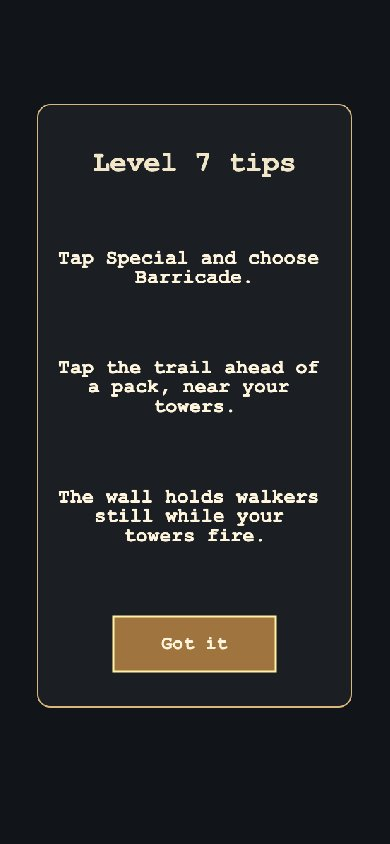
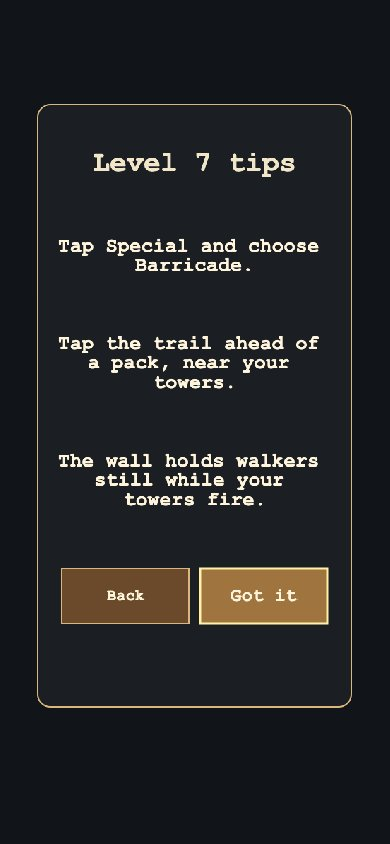
Protect first-visit tips and match instructions to the active input

diff --git a/src/game/names.ts b/src/game/names.ts
@@ -399,15 +399,22 @@ export const starSlots = (stars: number): string => '★'.repeat(stars) + '☆'.
 
 export const tipsHeading = (id: number): string => `Level ${id} tips`;
 
-export const LEVEL_TIPS: Readonly<Record<number, readonly string[]>> = {
-  1: ['Pick a tower. Click a green square by the trail (tap twice).', 'Press Start Wave to let the Goblins in.', 'Tap Special, then tap the trail to hit a pack.'],
-  2: ['Build a Cannon beside a bend.', 'Each blast hits Goblins that stand close together.'],
-  3: ['Put a Tar Pit beside the trail to slow fast Wolves.', 'Build towers nearby to hit them as they slow down.'],
-  4: ['Slow the Shieldbearers with a Tar Pit.', 'Put a Fire Pot nearby. Tar makes the fire burn harder.'],
-  5: ['Harpies fly over walls. Longbows and Musketeers hit them.', 'Fire Pots can hit Harpies, but the fire won’t stick.', 'Drop a Tar Barrel on a crowd to slow it down.'],
-  6: ['A Mortar shoots far but takes time between shots.', 'Use it against slow Trolls. Keep bows for the Harpies.'],
-  7: ['Tap Special and choose Barricade.', 'Tap the trail ahead of a pack, near your towers.', 'The wall holds walkers still while your towers fire.'],
-  8: ['Send Guards ahead of a pack of Shieldbearers.', 'Place them on the trail where your towers can help.', 'Drop Fire Arrows on a crowd to burn it.'],
-  9: ['Tap a tower you have upgraded once.', 'Choose one of its two upgrades before Grumblefoot comes.'],
-  10: ['Grumblemaw calls Wolves. Save a Powder Keg for the pack.', 'Slow Grumblemaw with tar, then hit him with fire.'],
-};
+function campaignTips(touch: boolean): Readonly<Record<number, readonly string[]>> {
+  const action = touch ? 'Tap' : 'Click';
+  return {
+    1: [touch ? 'Tap a tower, then tap a square by the trail twice.' : 'Click a tower, then click a square by the trail.', 'Press Start Wave to let the Goblins in.', `${action} Special, then ${action.toLowerCase()} the trail to hit a pack.`],
+    2: ['Build a Cannon beside a bend.', 'Each blast hits Goblins that stand close together.'],
+    3: ['Put a Tar Pit beside the trail to slow fast Wolves.', 'Build towers nearby to hit them as they slow down.'],
+    4: ['Slow the Shieldbearers with a Tar Pit.', 'Put a Fire Pot nearby. Tar makes the fire burn harder.'],
+    5: ['Harpies fly over the trail. Longbows and Musketeers hit them.', 'Fire Pots can hit Harpies, but the fire won’t stick.', 'Drop a Tar Barrel on a crowd to slow it down.'],
+    6: ['A Mortar shoots far but takes time between shots.', 'Use it against slow Trolls. Keep bows for the Harpies.', 'It cannot hit enemies right beside it.'],
+    7: [`${action} Special and choose Barricade.`, `${action} the trail ahead of a pack, near your towers.`, 'The wall holds walkers still while your towers fire.'],
+    8: ['Send Guards ahead of a pack of Shieldbearers.', 'Place them on the trail where your towers can help.', 'Drop Fire Arrows on a crowd to burn it.'],
+    9: [`${action} a tower you have upgraded once.`, 'Choose one of its two upgrades before Grumblefoot comes.'],
+    10: ['Grumblemaw calls Wolves. Save a Powder Keg for the pack.', 'Slow Grumblemaw with tar, then hit him with fire.'],
+  };
+}
+
+const mouseTips = campaignTips(false);
+const touchTips = campaignTips(true);
+export const levelTips = (id: number, touch: boolean): readonly string[] => (touch ? touchTips : mouseTips)[id];

diff --git a/src/game/TitleScene.ts b/src/game/TitleScene.ts
@@ -161,6 +161,8 @@ export class TitleScene extends Phaser.Scene {
   private page: TitleScreen = 'first';
   private card?: LevelDef;
   private replayTips = false;
+  private touchTips = false;
+  private tipsAcceptAt = 0;
   tipsEnabled = true;
   private mapStops: CampaignStop[] = [];
   private lockedMessage: string | null = null;
@@ -285,17 +287,27 @@ export class TitleScene extends Phaser.Scene {
       const start = () => this.startGame({ difficulty: DEFAULT_DIFFICULTY, map: level.map, level });
       const toCard = () => this.visit('levelCard', level.id);
       if (this.page === 'levelTips') {
-        this.playButton = drawLevelTips(this, portrait, level, this.action, () => {
+        // Play activates on pointerup, so the opening press has already ended.
+        // A press that begins during the guard must stay ignored on release.
+        const delay = this.tipsAcceptAt - performance.now();
+        if (delay > 0) {
+          this.input.enabled = false;
+          this.time.delayedCall(delay, () => { this.input.enabled = true; });
+        }
+        this.playButton = drawLevelTips(this, portrait, level, this.touchTips, this.action, () => {
+          if (!this.input.enabled) return;
           if (this.replayTips) return toCard();
           seenTips.mark(level.id);
           start();
-        });
-        this.bindMenuKeys(['gotIt']);
-        this.input.keyboard?.on('keydown-ESC', toCard);
+        }, this.replayTips ? undefined : toCard);
+        this.bindMenuKeys(this.replayTips ? ['gotIt'] : ['back', 'gotIt'], this.replayTips ? 0 : 1);
+        if (this.replayTips) this.input.keyboard?.on('keydown-ESC', toCard);
       } else {
         const seen = seenTips.has(level.id);
         const showTips = (replay: boolean) => {
           this.replayTips = replay;
+          this.touchTips = this.input.activePointer.wasTouch;
+          this.tipsAcceptAt = performance.now() + 400;
           this.visit('levelTips', level.id);
         };
         const review = seen ? () => showTips(true) : undefined;
@@ -510,14 +522,14 @@ export class TitleScene extends Phaser.Scene {
         : { text: line.text, rect: { x: line.x - line.width / 2, y: line.y - line.height / 2, width: line.width, height: line.height } };
     return {
       screen: this.page, stops: this.mapStops, lockedMessage: this.lockedMessage, levelId: this.card?.id ?? null,
-      scene: 'title', difficulty: this.selected, map: this.selectedMap, ready: this.ready,
+      scene: 'title', difficulty: this.selected, map: this.selectedMap, ready: this.isReady,
       look: this.lookStore.get(), loading: this.progress, bestLine,
     };
   }
 
   /** Whether the menu has been drawn and its buttons take clicks. */
   get isReady(): boolean {
-    return this.ready;
+    return this.ready && this.input.enabled;
   }
 
   /**
@@ -527,7 +539,7 @@ export class TitleScene extends Phaser.Scene {
    */
   rects(): Record<string, Rect> {
     const out: Record<string, Rect> = {};
-    if (!this.ready) return out;
+    if (!this.isReady) return out;
     for (const [key, button] of this.campaignButtons) out[key] = button.rect;
     for (const [l, b] of this.levelButtons) out[`title:${l}`] = b.rect;
     for (const [m, b] of this.mapButtons) out[`title:map:${m}`] = b.rect;

diff --git a/e2e/tipsVerifier.ts b/e2e/tipsVerifier.ts
@@ -40,7 +40,7 @@ export function tipsVerifierSuite(touch: boolean) {
     else await page.mouse.click(x, y);
   };
 
-  test('placing a tower takes one click with a mouse and two taps on touch (level 1 tip says click, tap twice)', async ({ page }) => {
+  test('placing a tower takes one click with a mouse and two taps on touch', async ({ page }) => {
     await page.goto('/?test=1');
     await waitForFirstScreen(page);
     await api(page, (t) => t.startLevel(1));
@@ -56,9 +56,7 @@ export function tipsVerifierSuite(touch: boolean) {
   });
 
   test('a quick second press on Play in portrait must not skip the first-visit tips', async ({ page }) => {
-    // Pins a defect: in portrait the Got it button sits under the Play button, so a double press
-    // starts the level and marks its tips as seen. Remove test.fail when fixed.
-    test.fail();
+    await page.clock.install();
     await page.goto('/?test=1');
     await waitForFirstScreen(page, { showTips: true });
     await rotateToPortrait(page);
@@ -71,11 +69,33 @@ export function tipsVerifierSuite(touch: boolean) {
       const r = t.uiRects()['title:play'];
       return t.canvasToPage(r.x + r.width / 2, r.y + r.height / 2);
     });
+    // Freeze just before Play so a slow test runner still presses inside the guard.
+    await page.clock.pauseAt(new Date(await page.evaluate(() => Date.now()) + 1000));
     await tap(page, play.x, play.y);
-    await page.waitForTimeout(100);
+    await page.clock.runFor(100);
     await tap(page, play.x, play.y);
-    await page.waitForTimeout(500);
+    const accept = await page.evaluate(() => {
+      const t = window.__tarpit as TarpitTestApi;
+      const label = t.campaignLabels().find(label => label.text === 'Got it')!;
+      return t.canvasToPage(label.x + label.width / 2, label.y + label.height / 2);
+    });
+    await page.clock.runFor(200);
+    await page.keyboard.press('Enter');
+    if (touch) {
+      await tap(page, accept.x, accept.y);
+      await page.clock.runFor(200);
+    } else {
+      // A press that starts early must still be ignored when released after the guard.
+      await page.mouse.move(accept.x, accept.y);
+      await page.mouse.down();
+      await page.clock.runFor(200);
+      await page.mouse.up();
+    }
     expect(await api(page, (t) => t.screen())).toBe('levelTips');
+    expect(await stored(page, 'tarpit.seenTips')).toBeNull();
+    await press(page, 'title:back', touch);
+    await page.clock.runFor(50);
+    expect(await api(page, (t) => t.screen())).toBe('levelCard');
     expect(await stored(page, 'tarpit.seenTips')).toBeNull();
   });
 

diff --git a/src/game/ui/campaignScreens.ts b/src/game/ui/campaignScreens.ts
@@ -1,7 +1,7 @@
 import type Phaser from 'phaser';
 import { MAPS, type LevelDef } from '../../sim';
 import { drawMapThumbnail } from '../draw/map';
-import { CAMPAIGN_TEXT, LEVEL_NAMES, LEVEL_NEW, LEVEL_TIPS, tipsHeading, MAP_NAMES, TITLE_TEXT, levelNumberText } from '../names';
+import { CAMPAIGN_TEXT, LEVEL_NAMES, LEVEL_NEW, levelTips, tipsHeading, MAP_NAMES, TITLE_TEXT, levelNumberText } from '../names';
 import { COLORS, FONT, TEXT } from '../palette';
 import type { Rect } from '../input';
 import type { CampaignStop } from './campaignMap';
@@ -121,15 +121,20 @@ export function drawLevelCard(
   return playButton;
 }
 
-export function drawLevelTips(scene: Phaser.Scene, portrait: boolean, level: LevelDef, action: Action, accept: () => void): Button {
+export function drawLevelTips(
+  scene: Phaser.Scene, portrait: boolean, level: LevelDef, touch: boolean,
+  action: Action, accept: () => void, back?: () => void,
+): Button {
   const cx = scene.scale.width / 2;
   const panel = portrait ? { x: 18, y: 148, width: 444, height: 852 } : { x: 72, y: 42, width: 816, height: 486 };
   const g = scene.add.graphics();
   g.fillStyle(COLORS.endPanel).fillRoundedRect(panel.x, panel.y, panel.width, panel.height, 18);
   g.lineStyle(2, COLORS.endPanelEdge).strokeRoundedRect(panel.x, panel.y, panel.width, panel.height, 18);
   const heading = label(scene, cx, panel.y + (portrait ? 83 : 60), tipsHeading(level.id), portrait ? 40 : 36, TEXT.title);
-  const lines = LEVEL_TIPS[level.id].map(line => label(scene, cx, 0, line, portrait ? 28 : 26, TEXT.button, panel.width - 52));
-  const rect = portrait ? { x: cx - 115, y: 872, width: 230, height: 78 } : { x: cx - 100, y: 432, width: 200, height: 58 };
+  const lines = levelTips(level.id, touch).map(line => label(scene, cx, 0, line, portrait ? 28 : 26, TEXT.button, panel.width - 52));
+  const width = portrait ? 180 : 200;
+  const rect = { x: back ? cx + 8 : cx - width / 2, y: portrait ? 804 : 402, width, height: portrait ? 78 : 58 };
+  if (back) action('title:back', { ...rect, x: cx - width - 8 }, CAMPAIGN_TEXT.back, back);
   const top = heading.y + heading.height / 2;
   const gap = (rect.y - top - lines.reduce((height, line) => height + line.height, 0)) / (lines.length + 1);
   let y = top;

diff --git a/e2e/campaignScreens.ts b/e2e/campaignScreens.ts
@@ -1,7 +1,7 @@
 import { expect, test, type Page } from '@playwright/test';
 import type { TitleUiState } from '../src/game/TitleScene';
 import type { TarpitTestApi } from '../src/game/testGlobal';
-import { CAMPAIGN_TEXT, TITLE_TEXT } from '../src/game/names';
+import { CAMPAIGN_TEXT, levelTips, TITLE_TEXT } from '../src/game/names';
 import { api, press } from './campaign';
 import { paintedAsset, settle } from './painted';
 import { useTallFontMetrics } from './campaignFont';
@@ -109,11 +109,23 @@ export function campaignScreenSuite(touch: boolean) {
         await press(page, `title:stop:${id}`, touch);
         await onScreen(page, 'levelCard');
         await checkSpacing(page);
+        const play = await api(page, t => t.uiRects()['title:play']);
         await press(page, 'title:play', touch);
         await onScreen(page, 'levelTips');
+        const gotIt = await api(page, t => t.uiRects()['title:gotIt']);
+        expect(Math.max(play.x - gotIt.x - gotIt.width, gotIt.x - play.x - play.width,
+          play.y - gotIt.y - gotIt.height, gotIt.y - play.y - play.height), 'Got it clears Play').toBeGreaterThanOrEqual(0);
+        expect(await api(page, t => t.campaignLabels().map(label => label.text))).toEqual(expect.arrayContaining([...levelTips(id, touch)]));
         await checkSpacing(page);
+        // Tablet and phone cover both touch layouts. Turn the desktop viewport for mouse wording.
+        if (!touch) {
+          await rotate(page, 'levelTips');
+          await checkSpacing(page);
+          expect(await api(page, t => t.campaignLabels().map(label => label.text))).toEqual(expect.arrayContaining([...levelTips(id, touch)]));
+        }
         await page.keyboard.press('Escape');
         await onScreen(page, 'levelCard');
+        if (!touch) await rotate(page, 'levelCard');
         await press(page, 'title:back', touch);
         await onScreen(page, 'levelMap');
       }

diff --git a/src/game/tips-verifier.test.ts b/src/game/tips-verifier.test.ts
@@ -2,7 +2,7 @@
 import { describe, expect, it } from 'vitest';
 import { LEVELS, createGame } from '../sim';
 import { allowedTowers, availableSpecials, maxTowerLevel } from '../sim';
-import { LEVEL_TIPS } from './names';
+import { levelTips } from './names';
 import { campaignResultText } from './ui/endText';
 
 const level = (id: number) => LEVELS.find(l => l.id === id)!;
@@ -43,6 +43,18 @@ describe('milestone 42 tips use only gear the level allows', () => {
     expect(open(9).tier).toBe(3);
     expect(open(10).specials).toContain('keg');
     expect(open(10).towers).toEqual(expect.arrayContaining(['tarpit', 'firepot']));
-    expect(Object.keys(LEVEL_TIPS)).toHaveLength(LEVELS.length);
+  });
+
+  it.each([false, true])('describes the build and special controls for the active pointer (touch=%s)', touch => {
+    const action = touch ? 'Tap' : 'Click';
+    const basics = levelTips(1, touch);
+    expect(basics[0]).toBe(touch ? 'Tap a tower, then tap a square by the trail twice.' : 'Click a tower, then click a square by the trail.');
+    expect(basics[2]).toBe(`${action} Special, then ${action.toLowerCase()} the trail to hit a pack.`);
+    expect(levelTips(7, touch).slice(0, 2)).toEqual([
+      `${action} Special and choose Barricade.`, `${action} the trail ahead of a pack, near your towers.`,
+    ]);
+    expect(levelTips(9, touch)[0]).toBe(`${action} a tower you have upgraded once.`);
+    expect(levelTips(5, touch)[0]).toBe('Harpies fly over the trail. Longbows and Musketeers hit them.');
+    expect(levelTips(6, touch)[2]).toBe('It cannot hit enemies right beside it.');
   });
 });

diff --git a/src/game/seenTips.test.ts b/src/game/seenTips.test.ts
@@ -1,17 +1,17 @@
 import { describe, expect, it } from 'vitest';
 import { LEVELS } from '../sim';
-import { LEVEL_TIPS } from './names';
+import { levelTips } from './names';
 import { SEEN_TIPS_KEY, SeenTipsStore } from './seenTips';
 
 describe('campaign tips', () => {
-  it('gives every campaign level one to three short lines', () => {
-    expect(Object.keys(LEVEL_TIPS).map(Number)).toEqual(LEVELS.map(level => level.id));
-    for (const lines of Object.values(LEVEL_TIPS)) {
+  it.each([false, true])('gives every campaign level one to three short lines (touch=%s)', touch => {
+    for (const level of LEVELS) {
+      const lines = levelTips(level.id, touch);
       expect(lines.length).toBeGreaterThan(0);
       expect(lines.length).toBeLessThanOrEqual(3);
       for (const line of lines) {
         expect(line.trim().length).toBeGreaterThan(0);
-        expect(line.length).toBeLessThanOrEqual(60);
+        expect(line.length).toBeLessThanOrEqual(61);
       }
     }
   });

diff --git a/docs/DESIGN.md b/docs/DESIGN.md
@@ -1698,20 +1698,26 @@ for earned slots and outlines for empty slots. The first open level without a wi
 Tapping any lock names the first open level still to win. Back returns to
 the first screen. An open stop shows a card with the level name, map,
 twist, new equipment or enemies, and best stars. On the first Play for
-each level, a tips panel shows up to three short instructions. Got it
-starts the level. On later visits Play starts the level directly and Tips
+each level, a tips panel shows up to three short instructions. Action words
+match the input used to open the panel. A mouse builds with one click on
+the square. Touch arms the square with the first tap and builds with the
+second. Panel buttons ignore pointer presses until the opening pointer has
+been released and at least 400 ms have elapsed since opening. Got it sits
+clear of the card’s Play button in both layouts and starts the level. On later visits Play starts the level directly and Tips
 reopens the instructions. Got it on a reopened panel returns to the card.
 Escape returns to the card from either panel. Enter and Space activate
 the selected button. Turning the device keeps the panel and its action.
 Got it marks the level seen under `tarpit.seenTips`. Leaving the first
-panel with Escape keeps it available on the next Play. Free play skips
+panel with Back or Escape keeps it available on the next Play. Free play skips
 this panel. Test mode follows the same rules unless a test calls
 `setTipsEnabled(false)` to skip first-visit tips.
 
 The build bar keeps every tower in its usual slot. Towers unavailable in
 this level appear dimmed with a lock and cannot be selected. The tower
 panel offers upgrades up to the level’s tier limit. At a campaign cap
-below tier three, it shows “Max for this level” beside the kill count. From wave one, the specials menu lists the level’s specials.
+below tier three, it shows “Max for this level” beside the kill count. From wave one, the specials menu lists the level’s specials. Wave unlock
+hints appear only for specials available in that run, including extras
+made available by the gold cheat.
 
 The game shows the level number and counts waves against the level's own
 length. A win shows this run's stars and lives. A gold-cheat win shows

diff --git a/DEVLOG.md b/DEVLOG.md
@@ -9203,3 +9203,11 @@ At 1.5× font metrics the old landscape wave counter overlapped the level tag by
 - Not a defect, worth knowing: the first-visit panel has no Back on touch
   (Escape only); a progress file written as version 2 reads as empty in a build
   from before this change.
+
+### Fixes after verification
+
+The first-visit panel keeps Got it clear of Play, waits for pointer release
+and a 400 ms guard, and offers Back without marking the level seen. Tips
+now use mouse or touch wording, describe the Harpies on level 5, and explain
+the Mortar’s minimum range on level 6. Wave hints follow the specials
+available in the current run, including those opened by the cheat.
